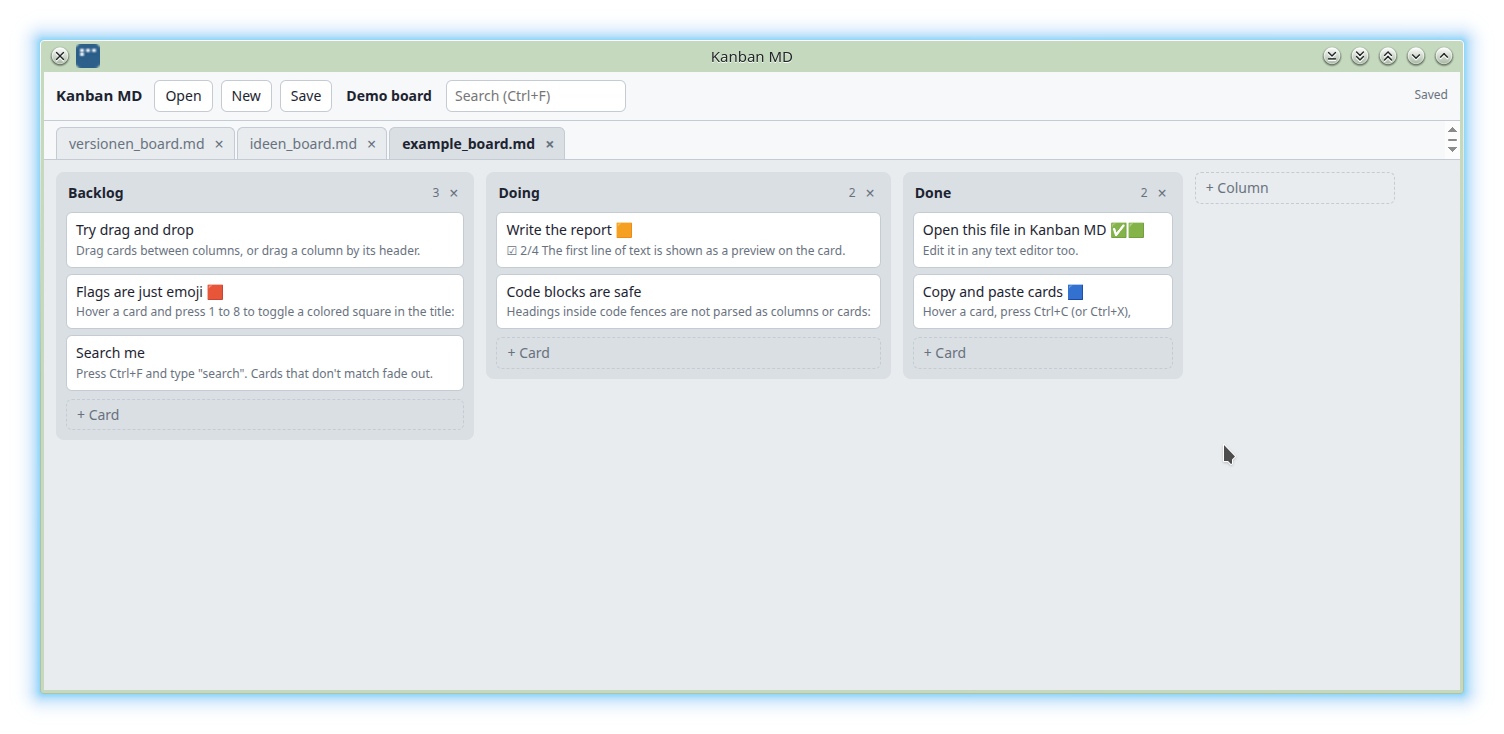
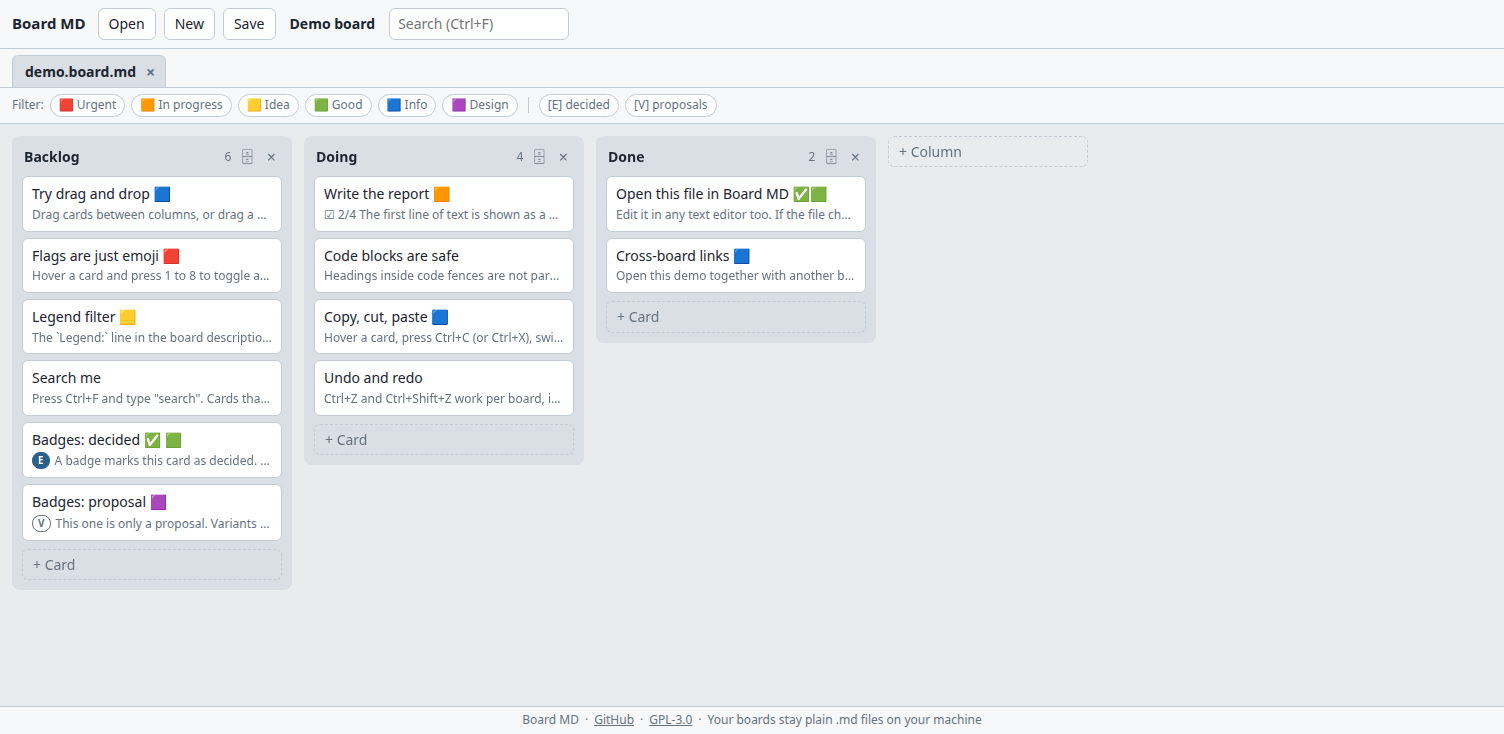
Update screenshot to demo board; keep columns at fixed width with long previews

diff --git a/boardmd.html b/boardmd.html
@@ -29,7 +29,7 @@ button[hidden]{display:none}
 .tab.dt{outline:2px solid var(--acc);color:var(--ink)}
 .tab.on{background:var(--col);color:var(--ink);font-weight:600}
 #app{flex:1;display:flex;gap:12px;padding:12px;overflow-x:auto;align-items:flex-start}
-.col{flex:0 0 280px;max-height:100%;display:flex;flex-direction:column;background:var(--col);border-radius:8px;border:2px solid transparent}
+.col{flex:0 0 280px;min-width:0;max-height:100%;display:flex;flex-direction:column;background:var(--col);border-radius:8px;border:2px solid transparent}
 .col.dl{border-left-color:var(--acc)}.col.dr{border-right-color:var(--acc)}
 .ch{display:flex;align-items:center;gap:6px;padding:8px 10px;cursor:grab}
 .cn{font-weight:600;flex:1;min-width:0;overflow-wrap:anywhere;cursor:text}
